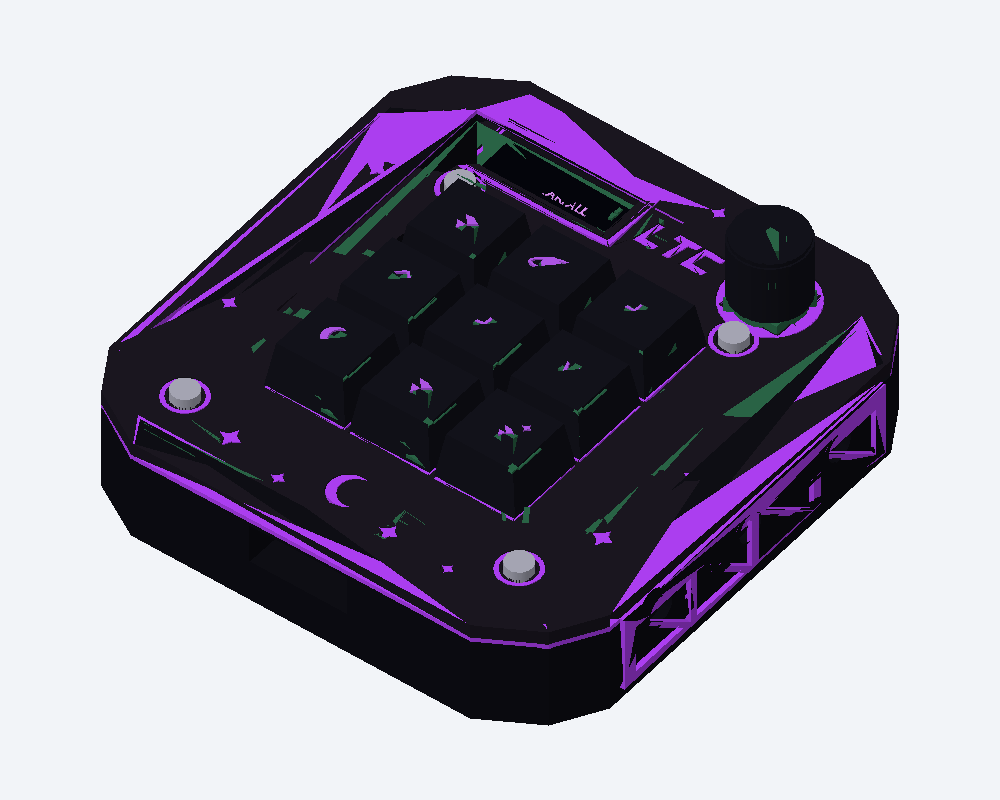
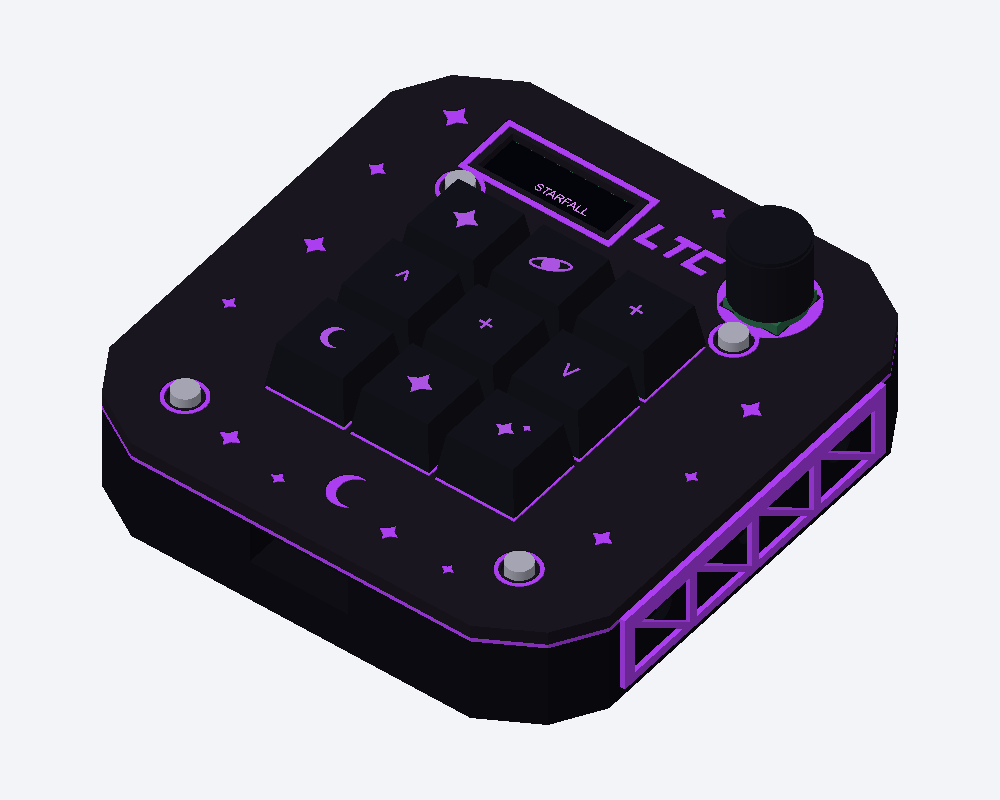
Fix preview triangle visibility with per-pixel depth testing [skip ci]

diff --git a/tools/render_assembly.py b/tools/render_assembly.py
@@ -79,17 +79,28 @@ def render_model(size, camera, margin=70, exploded=False, background=(242, 244, 
     midpoint_y = (projected_y.max() + projected_y.min()) / 2
 
     image = Image.new("RGB", (width * SCALE, height * SCALE), background)
-    draw = ImageDraw.Draw(image)
-    # Draw back-to-front. This is much faster than the old per-pixel
-    # barycentric z-buffer and is accurate for these non-intersecting parts.
-    for _, tri, color in sorted(triangles, key=lambda item: item[0]):
-        coords = np.column_stack(
-            (
-                center_x + (tri @ right - midpoint_x) * render_scale,
-                center_y - (tri @ up - midpoint_y) * render_scale,
-            )
-        )
-        draw.polygon([tuple(point) for point in coords], fill=color)
+    pixels=np.array(image)
+    depth=np.full((height*SCALE,width*SCALE),-np.inf,dtype=np.float64)
+    # Resolve visibility at every pixel, not by triangle-centroid ordering.
+    for _,tri,color in triangles:
+        coords=np.column_stack((center_x+(tri@right-midpoint_x)*render_scale,
+                                center_y-(tri@up-midpoint_y)*render_scale))
+        xmin,ymin=np.maximum(np.floor(coords.min(axis=0)).astype(int),[0,0])
+        xmax,ymax=np.minimum(np.ceil(coords.max(axis=0)).astype(int),[width*SCALE-1,height*SCALE-1])
+        if xmax<xmin or ymax<ymin:continue
+        xx,yy=np.meshgrid(np.arange(xmin,xmax+1)+.5,np.arange(ymin,ymax+1)+.5)
+        a,b,c=coords
+        den=(b[1]-c[1])*(a[0]-c[0])+(c[0]-b[0])*(a[1]-c[1])
+        if abs(den)<1e-12:continue
+        u=((b[1]-c[1])*(xx-c[0])+(c[0]-b[0])*(yy-c[1]))/den
+        v=((c[1]-a[1])*(xx-c[0])+(a[0]-c[0])*(yy-c[1]))/den
+        w=1-u-v
+        z=tri@camera; zz=u*z[0]+v*z[1]+w*z[2]
+        target=depth[ymin:ymax+1,xmin:xmax+1]
+        mask=(u>=-1e-9)&(v>=-1e-9)&(w>=-1e-9)&(zz>target)
+        target[mask]=zz[mask]
+        pixels[ymin:ymax+1,xmin:xmax+1][mask]=color
+    image=Image.fromarray(pixels)
 
     return image.resize((width, height), Image.Resampling.LANCZOS)
 
@@ -120,3 +131,4 @@ save_preview()
 save_plain("case_iso.png", [1.0, -1.3, 1.6])
 save_plain("case_top.png", [0.0, 0.0, 1.0])
 save_plain("case_exploded.png", [1.0, -1.3, 1.35], exploded=True)
+
